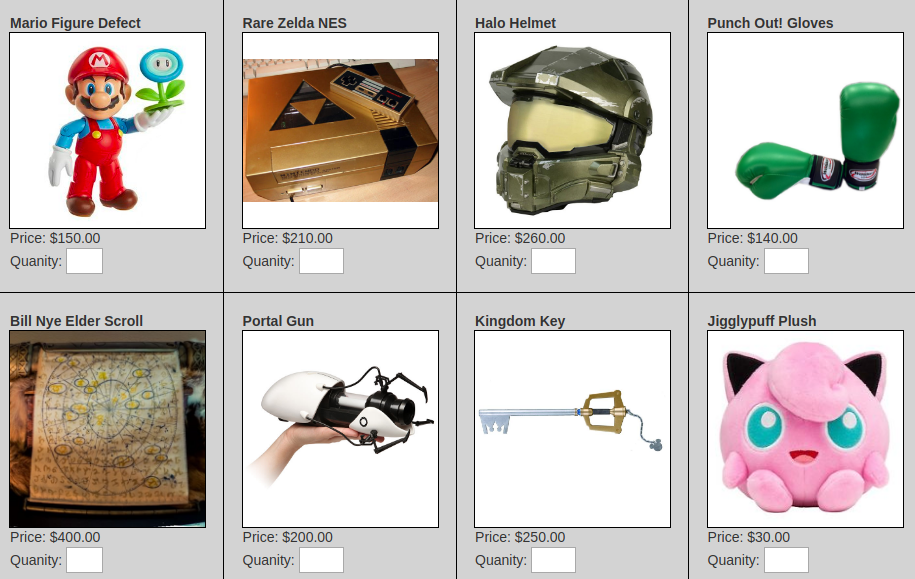
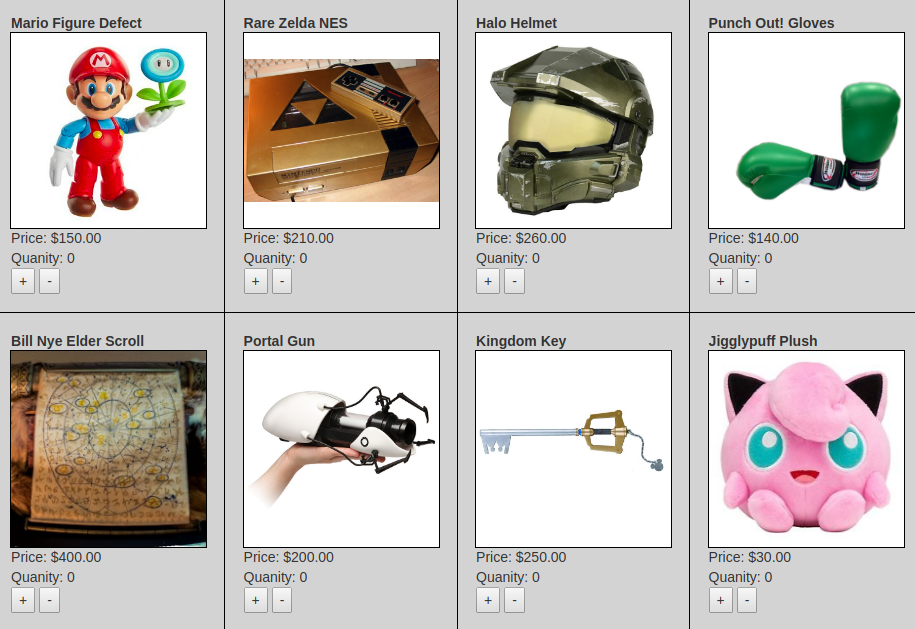
replaced images again.

diff --git a/index.html b/index.html
@@ -25,12 +25,12 @@
                 <li>Working Services</li>
                 <li>and Great Value!</li>
             </ul>
-            <center><div class="biggest downpadd"><b>User Instructions:</b></div></center>
+            <center><div class="biggest downpadd"><b>User Instructions: </b></div></center>
             <b class="bigger">Step 1: Find the item you want.</b>
             <div class="downpadd">
                 <img src="images/screen.png">
             </div>
-            <b class="bigger">Step 2: Enter the quanity you want to rent in the "quanity" box.</b>
+            <b class="bigger">Step 2: Raise the quanity you want to rent using the "+" and "-" buttons.</b>
             <div class="downpadd">
                 <img src="images/small_screen.png">
             </div>
